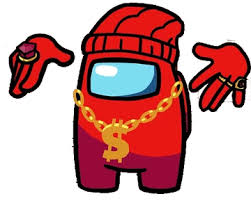
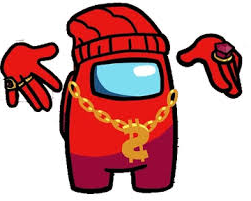
bigger gangster less screen width

diff --git a/minion.py b/minion.py
@@ -87,7 +87,7 @@ class Test2(Minion):
 
 class Test3(Minion):
     image_path = config['image']['minion3']
-    image_size = (25, 50)
+    image_size = (50, 50)
     health = 100
     speed = 100
     damage = 10
